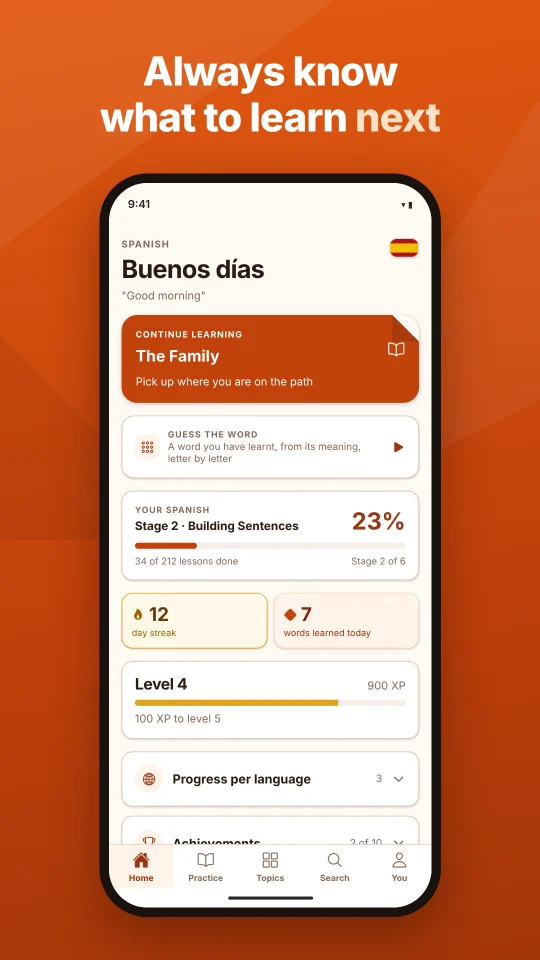
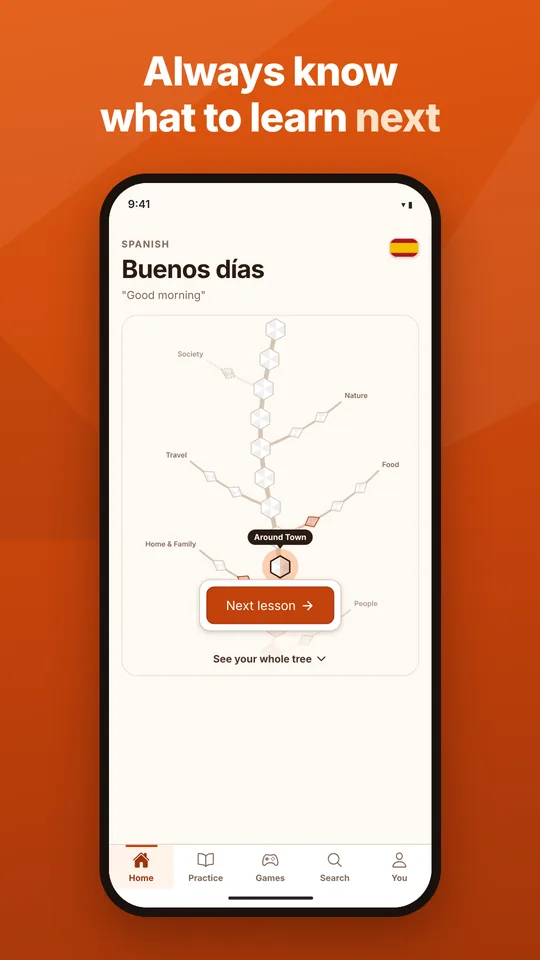
feat: update colors, screenshots and privacy policy

diff --git a/privacy.html b/privacy.html
@@ -12,7 +12,7 @@
     <link rel="apple-touch-icon" href="assets/apple-touch-icon.png" />
     <link rel="canonical" href="https://lemmafold.com/privacy" />
     <link rel="preload" href="assets/fonts/inter-latin.woff2" as="font" type="font/woff2" crossorigin />
-    <link rel="stylesheet" href="style.css?v=3" />
+    <link rel="stylesheet" href="style.css?v=4" />
   </head>
   <body>
     <a class="skip-link" href="#main">Skip to content</a>
@@ -33,7 +33,7 @@
 
     <main id="main" class="doc">
       <h1>Privacy Policy</h1>
-      <p class="muted">Last updated 14 September 2026</p>
+      <p class="muted">Last updated 19 November 2026</p>
 
       <div class="card">
         <p><strong>The short version</strong></p>
@@ -41,6 +41,7 @@
           <li>You can use all of LemmaFold without an account. Your progress then never leaves your device.</li>
           <li>If you create an account, we store your email address and your progress so it can sync between your devices.</li>
           <li>If the app crashes, an anonymous crash report is sent so we can fix the bug.</li>
+          <li>If you send feedback from the app, we receive what you write and some technical details, never your email address or progress.</li>
           <li>No ads, no analytics, no tracking, and we never sell your data.</li>
         </ul>
       </div>
@@ -57,7 +58,8 @@
       <h3>If you don't create an account</h3>
       <p>
         Lessons and your progress are stored only in a database on your device. We don't receive
-        them. The only thing that can leave your device is a crash report (see below).
+        them. The only things that can leave your device are crash reports and feedback you choose
+        to send (see below).
       </p>
 
       <h3>If you create an account</h3>
@@ -78,6 +80,35 @@
         When the app crashes or hits an error, it sends a report with technical details: device
         model, operating system and app version, and where in the code the error happened. Reports
         do not include your email address or your progress, and are not linked to your account.
+      </p>
+
+      <h3>Feedback you send from the app</h3>
+      <p>
+        Only when you use <strong>Send feedback</strong> in the app, or the flag on a question,
+        lesson page, story or game, we receive:
+      </p>
+      <ul>
+        <li>what you write and the category you pick;</li>
+        <li>
+          for a report from the flag, what it was about: the question, page, story or game (the
+          course's own text) and, for a question, the answer you gave;
+        </li>
+        <li>
+          diagnostics: app version and build, platform, operating system version and device
+          model, the language you are learning, the screen you sent it from, whether you are
+          signed in and when you last synced, your device's locale and time-zone offset, and a
+          random id made by the app on your device.
+        </li>
+      </ul>
+      <p>
+        Feedback never includes your email address, your account id or your progress. It is
+        stored as an issue in a private GitHub repository that only the developer can read. When
+        a report leads to a change, its text and diagnostics may be given to an AI coding
+        assistant (Anthropic's Claude) that helps write the fix.
+      </p>
+      <p>
+        To limit abuse of the feedback form, we keep a one-way keyed hash of your IP address
+        (never the address itself) for 24 hours.
       </p>
 
       <h3>Emails you send us</h3>
@@ -116,6 +147,16 @@
               <td>Legitimate interest in a working app (art. 6(1)(f))</td>
             </tr>
             <tr>
+              <td>Fixing what you report and improving the course</td>
+              <td>Feedback from the app and its diagnostics</td>
+              <td>Legitimate interest in a working app and correct lessons (art. 6(1)(f))</td>
+            </tr>
+            <tr>
+              <td>Preventing abuse of the feedback form</td>
+              <td>Keyed hash of your IP address</td>
+              <td>Legitimate interest (art. 6(1)(f))</td>
+            </tr>
+            <tr>
               <td>Answering your questions</td>
               <td>Your emails</td>
               <td>Legitimate interest (art. 6(1)(f))</td>
@@ -146,6 +187,14 @@
               <td>30 days, then deleted automatically</td>
             </tr>
             <tr>
+              <td>Feedback from the app</td>
+              <td>Until 90 days after the issue it opened is closed, then deleted</td>
+            </tr>
+            <tr>
+              <td>Keyed hash of your IP address</td>
+              <td>24 hours</td>
+            </tr>
+            <tr>
               <td>Server logs at our hosting provider</td>
               <td>At most 7 days</td>
             </tr>
@@ -162,7 +211,11 @@
       </div>
 
       <h2>Who processes it</h2>
-      <p>We use these service providers, bound by data processing agreements:</p>
+      <p>
+        We use these service providers. Supabase and Sentry are bound by data processing
+        agreements and keep your data in the EU. GitHub and Anthropic only ever receive feedback
+        you choose to send, which carries no email address, account id or progress.
+      </p>
       <div class="table-wrap">
         <table>
           <thead>
@@ -176,7 +229,7 @@
           <tbody>
             <tr>
               <td>Supabase</td>
-              <td>Account sign-in and progress sync</td>
+              <td>Account sign-in, progress sync and receiving feedback</td>
               <td>Frankfurt, Germany (EU)</td>
               <td><a href="https://supabase.com/privacy">supabase.com/privacy</a></td>
             </tr>
@@ -185,6 +238,18 @@
               <td>Crash reports</td>
               <td>Frankfurt, Germany (EU)</td>
               <td><a href="https://sentry.io/privacy/">sentry.io/privacy</a></td>
+            </tr>
+            <tr>
+              <td>GitHub</td>
+              <td>Storing feedback you send</td>
+              <td>United States</td>
+              <td><a href="https://docs.github.com/site-policy/privacy-policies/github-general-privacy-statement">GitHub privacy statement</a></td>
+            </tr>
+            <tr>
+              <td>Anthropic</td>
+              <td>Helping write fixes from feedback</td>
+              <td>United States</td>
+              <td><a href="https://www.anthropic.com/legal/privacy">anthropic.com/legal/privacy</a></td>
             </tr>
           </tbody>
         </table>
@@ -195,8 +260,11 @@
         independent controllers.
       </p>
       <p>
-        Where a provider or its sub-processors handle data outside the European Economic Area,
-        the transfer is protected by the European Commission's Standard Contractual Clauses.
+        Where Supabase's or Sentry's sub-processors handle data outside the European Economic
+        Area, the transfer is protected by the European Commission's Standard Contractual
+        Clauses. Feedback you send is stored by GitHub, and may be read by Anthropic, in the
+        United States. Please don't include personal details, such as your name or email
+        address, in feedback.
       </p>
 
       <h2>How we protect it</h2>

diff --git a/index.html b/index.html
@@ -27,7 +27,7 @@
     <meta property="og:image:height" content="500" />
     <meta name="twitter:card" content="summary_large_image" />
     <link rel="preload" href="assets/fonts/inter-latin.woff2" as="font" type="font/woff2" crossorigin />
-    <link rel="stylesheet" href="style.css?v=3" />
+    <link rel="stylesheet" href="style.css?v=4" />
   </head>
   <body class="home">
     <a class="skip-link" href="#main">Skip to content</a>
@@ -148,14 +148,14 @@
       <!-- Screenshots -->
       <section class="gallery wrap" aria-label="Screenshots of the app">
         <ul class="gallery-track" id="gallery" tabindex="0">
-          <li><img src="assets/screens/01-home.webp" width="540" height="960" loading="lazy" alt="Home screen: always know what to learn next, with your streak, words learned today and progress through the path" /></li>
-          <li><img src="assets/screens/02-grammar.webp" width="540" height="960" loading="lazy" alt="A grammar lesson laid out in full, with a complete conjugation table" /></li>
-          <li><img src="assets/screens/03-stories.webp" width="540" height="960" loading="lazy" alt="A short story built from words you know" /></li>
-          <li><img src="assets/screens/04-practice.webp" width="540" height="960" loading="lazy" alt="A practice question that gets harder as you learn" /></li>
-          <li><img src="assets/screens/05-word.webp" width="540" height="960" loading="lazy" alt="A word page showing every form of the word" /></li>
-          <li><img src="assets/screens/06-level-check.webp" width="540" height="960" loading="lazy" alt="The level check, to start at your level" /></li>
-          <li><img src="assets/screens/07-topics.webp" width="540" height="960" loading="lazy" alt="Topic lessons you choose, beside the main path" /></li>
-          <li><img src="assets/screens/08-languages.webp" width="540" height="960" loading="lazy" alt="The eight languages, offline and ad-free" /></li>
+          <li><img src="assets/screens/01-home.webp" width="540" height="960" loading="lazy" alt="Home screen: always know what to learn next, with the next lesson picked out on your course tree" /></li>
+          <li><img src="assets/screens/02-tree.webp" width="540" height="960" loading="lazy" alt="Your whole course tree, with the core path and its topic branches filling in as you learn" /></li>
+          <li><img src="assets/screens/03-grammar.webp" width="540" height="960" loading="lazy" alt="A grammar lesson laid out in full, with a complete conjugation table" /></li>
+          <li><img src="assets/screens/04-stories.webp" width="540" height="960" loading="lazy" alt="A conversation built from words you know" /></li>
+          <li><img src="assets/screens/05-practice.webp" width="540" height="960" loading="lazy" alt="A fill-the-gap practice question that gets harder as you learn" /></li>
+          <li><img src="assets/screens/06-word.webp" width="540" height="960" loading="lazy" alt="A word page showing every form of the word, case by case" /></li>
+          <li><img src="assets/screens/07-level-check.webp" width="540" height="960" loading="lazy" alt="The level check, to start at your level" /></li>
+          <li><img src="assets/screens/08-topics.webp" width="540" height="960" loading="lazy" alt="Topic lessons you choose, beside the main path" /></li>
         </ul>
         <div class="gallery-nav">
           <button type="button" data-dir="-1" aria-label="Previous screenshots" aria-controls="gallery">

diff --git a/style.css b/style.css
@@ -91,39 +91,49 @@
 
 @media (prefers-color-scheme: dark) {
   :root {
-    /* Surfaces - lamplit paper */
+    /*
+     * Surfaces - lamplit paper. Each fold laid over the page is a step
+     * lighter than what it lies on; the inset well is the one step down.
+     */
     --page: #1a120d;
-    --card: #261a13;
-    --muted: #2e2018;
-    --muted-strong: #402e22;
-    --inset: #261a13;
+    --card: #281d15;
+    --muted: #34261c;
+    --muted-strong: #4a3729;
+    --inset: #201711;
+    /*
+     * The one token that leaves the app: there --inverse turns to warm paper
+     * for small toasts, but here it fills a whole band, which stays ink.
+     */
     --inverse: #0f0a07;
-    --on-inverse: #fdf9f4;
+    --on-inverse: #f6eee4;
     --on-inverse-muted: #c6b09d;
 
-    --border: #402e22;
-    --border-emphasis: #5c4432;
+    --border: #4c382a;
+    --border-emphasis: #6a503c;
 
-    --fg: #fdf9f4;
-    --fg-body: #f5ebe0;
-    --fg-secondary: #e2d2c3;
-    --fg-muted: #b09683;
+    /* Warm, and a shade below white so it does not bloom */
+    --fg: #f6eee4;
+    --fg-body: #ece1d4;
+    --fg-secondary: #decebe;
+    --fg-muted: #b29986;
 
+    /* The fills stay lamplit orange, so what is written on them is ink, not white. */
     --accent: #ea580c;
     --accent-pressed: #c2410c;
     --accent-fg: #fb923c;
-    --accent-muted: #382114;
-    --accent-border: #58301a;
+    --accent-muted: #482817;
+    --accent-border: #743e1f;
     --brand: #f97316;
+    --on-accent: #1c1008;
 
     --success-fg: #a6ce6e;
-    --success-subtle: #1f2614;
-    --success-border: #6e9c3a;
+    --success-subtle: #28331a;
+    --success-border: #7eb042;
     --danger-fg: #e88a76;
-    --danger-subtle: #2e1813;
-    --danger-border: #c45842;
+    --danger-subtle: #3e1f18;
+    --danger-border: #b64c38;
     --warning-subtle: #30210c;
-    --warning-border: #a16207;
+    --warning-border: #b0700e;
     --warning-fg: #f5b433;
 
     --cat-vocabulary: #5eb8b2;

diff --git a/delete-account.html b/delete-account.html
@@ -15,7 +15,7 @@
     <link rel="apple-touch-icon" href="assets/apple-touch-icon.png" />
     <link rel="canonical" href="https://lemmafold.com/delete-account" />
     <link rel="preload" href="assets/fonts/inter-latin.woff2" as="font" type="font/woff2" crossorigin />
-    <link rel="stylesheet" href="style.css?v=3" />
+    <link rel="stylesheet" href="style.css?v=4" />
   </head>
   <body>
     <a class="skip-link" href="#main">Skip to content</a>
@@ -116,6 +116,14 @@
                 account.
               </td>
               <td>Deleted automatically after 30 days</td>
+            </tr>
+            <tr>
+              <td>Feedback you sent from the app (what you wrote and its diagnostics)</td>
+              <td>
+                Fixing what you reported. It contains no email address, account id or progress and
+                is not linked to your account.
+              </td>
+              <td>Deleted 90 days after the issue it opened is closed</td>
             </tr>
             <tr>
               <td>Short-lived server logs at our hosting provider</td>

diff --git a/support.html b/support.html
@@ -12,7 +12,7 @@
     <link rel="apple-touch-icon" href="assets/apple-touch-icon.png" />
     <link rel="canonical" href="https://lemmafold.com/support" />
     <link rel="preload" href="assets/fonts/inter-latin.woff2" as="font" type="font/woff2" crossorigin />
-    <link rel="stylesheet" href="style.css?v=3" />
+    <link rel="stylesheet" href="style.css?v=4" />
   </head>
   <body>
     <a class="skip-link" href="#main">Skip to content</a>

diff --git a/terms.html b/terms.html
@@ -15,7 +15,7 @@
     <link rel="apple-touch-icon" href="assets/apple-touch-icon.png" />
     <link rel="canonical" href="https://lemmafold.com/terms" />
     <link rel="preload" href="assets/fonts/inter-latin.woff2" as="font" type="font/woff2" crossorigin />
-    <link rel="stylesheet" href="style.css?v=3" />
+    <link rel="stylesheet" href="style.css?v=4" />
   </head>
   <body>
     <a class="skip-link" href="#main">Skip to content</a>
